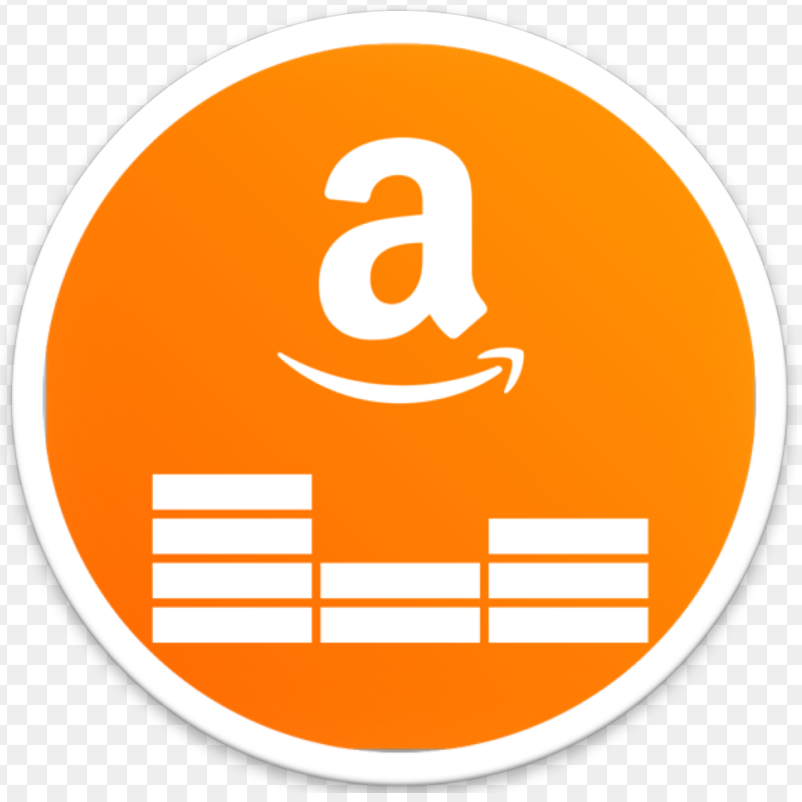
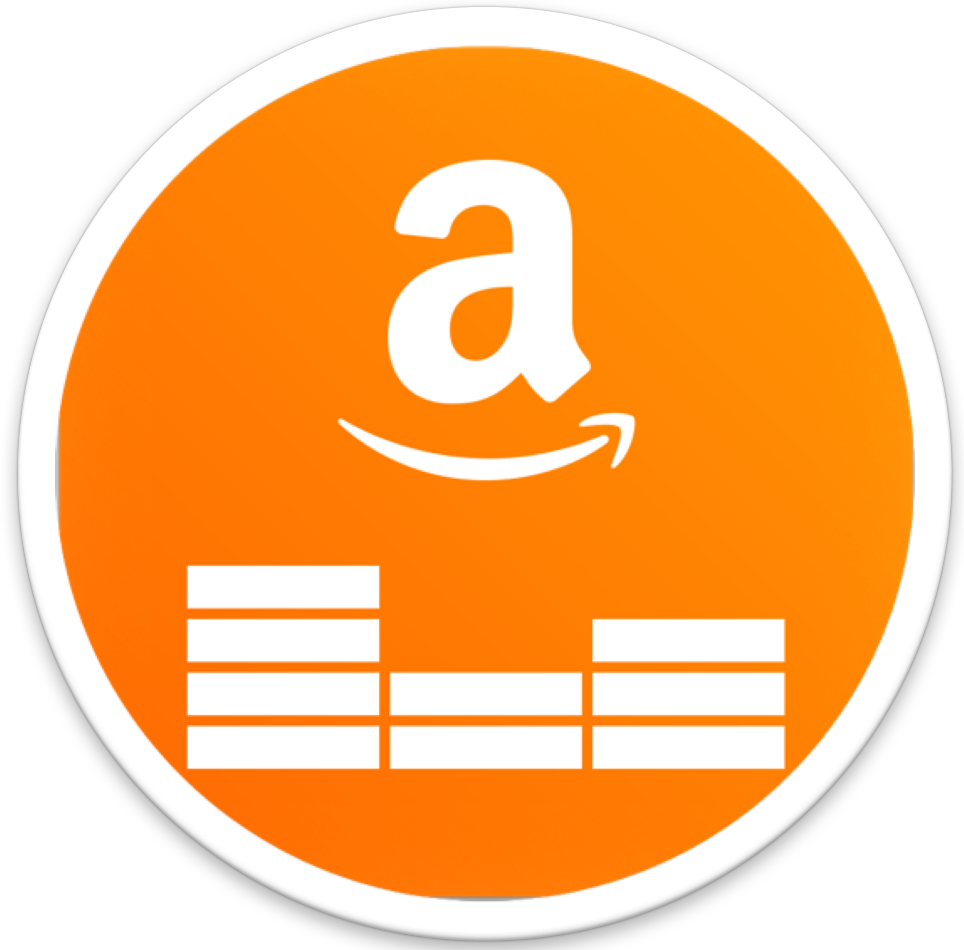
fix color

diff --git a/docs/index.html b/docs/index.html
@@ -43,37 +43,39 @@
         </div>
         <!-- <img src="img/album-cover.jpg" alt="Album Cover" width="500" height="500"> -->
       </div>
+      <div class='social-icons'>
+        <span class='social-icon p-1 '>
+          <a href="https://open.spotify.com/album/1DbRcm1FRhm0xilHmNosDM">
+            <img src="img/spotify-icon.png" alt="Spotify" width="50" height="50">
+          </a>
+        </span>
+        <span class='social-icon p-1 '>
+          <a href="https://music.apple.com/us/album/zona/1525062438?uo=4&app=music&at=1000lHKX">
+            <img src="img/apple-icon.png" alt="Apple" width="50" height="50">
+          </a>
+        </span>
+        <span class='social-icon p-1 '>
+          <a href="https://www.youtube.com/playlist?list=OLAK5uy_lT6MOkMMOZTNu4WrU-AWnHciyxI_RmZ4E">
+            <img src="img/youtube-icon.png" alt="Youtube" width="50" height="50">
+          </a>
+        </span>
+        <span class='social-icon p-1 '>
+          <a href="https://play.google.com/music/listen#/album/Blbjhpwvz356rn7sqkjaz3yrwom">
+            <img src="img/google-icon.png" alt="Google Play" width="50" height="50">
+          </a>
+        </span>
+        <span class='social-icon p-1 '>
+          <a href="https://music.amazon.com/albums/B08DLQ286Y?do=play">
+            <img src="img/amazon-icon.png" alt='Amazon music' width="50" height="50">
+          </a>
+        </span>
+        <span class='social-icon p-1 '>
+          <a href="https://twitter.com/hypertalk_ai">
+            <img src="img/twitter-icon.png" alt="Twitter" width="50" height="50">
+          </a>
+        </span>
+      </div>
 
-      <span class='social-icon p-1 '>
-        <a href="https://open.spotify.com/album/1DbRcm1FRhm0xilHmNosDM">
-          <img src="img/spotify-icon.png" alt="Spotify" width="50" height="50">
-        </a>
-      </span>
-      <span class='social-icon p-1 '>
-        <a href="https://music.apple.com/us/album/zona/1525062438?uo=4&app=music&at=1000lHKX">
-          <img src="img/apple-icon.png" alt="Apple" width="50" height="50">
-        </a>
-      </span>
-      <span class='social-icon p-1 '>
-        <a href="https://www.youtube.com/playlist?list=OLAK5uy_lT6MOkMMOZTNu4WrU-AWnHciyxI_RmZ4E">
-          <img src="img/youtube-icon.png" alt="Youtube" width="50" height="50">
-        </a>
-      </span>
-      <span class='social-icon p-1 '>
-        <a href="https://play.google.com/music/listen#/album/Blbjhpwvz356rn7sqkjaz3yrwom">
-          <img src="img/google-icon.png" alt="Google Play" width="50" height="50">
-        </a>
-      </span>
-      <span class='social-icon p-1 '>
-        <a href="https://music.amazon.com/albums/B08DLQ286Y?do=play">
-          <img src="img/amazon-icon.png" alt="Google Play" width="50" height="50">
-        </a>
-      </span>
-      <span class='social-icon p-1 '>
-        <a href="https://twitter.com/hypertalk_ai">
-          <img src="img/twitter-icon.png" alt="Twitter" width="50" height="50">
-        </a>
-      </span>
 
     </main>
   

diff --git a/docs/assets/css/main.css b/docs/assets/css/main.css
@@ -35,7 +35,8 @@ body {
     line-height: 1.4;
     height: 100%;
     text-align: center;
-}
+    background-color: #2b2b2b;
+  }
 
 /*
  * Remove text-shadow in selection highlight: h5bp.com/i
@@ -228,6 +229,10 @@ hr {
     border: none;
 }
 
+.social-icons{
+  padding-top: 1em;
+}
+
 hr:before {
     content: " ";
     position: absolute;
@@ -239,7 +244,7 @@ hr:before {
 }
 
 a img {
-    background: white;
+    background:#2b2b2b;
 }
 
 .odd a img {
@@ -250,7 +255,7 @@ a img {
 h1, h2, h3, h4, h5, h6 {
     font-family: "Library 3 am";
     font-weight: 300;
-    color: #333;
+    color: #c0392b;
 }
 
 

diff --git a/docs/assets/aviator/js/main_step2.js b/docs/assets/aviator/js/main_step2.js
@@ -537,8 +537,8 @@ function loop(){
   // //  var diff = airplane.mesh.position.distanceTo(c.mesh.position)
   //   //console.log(diff)
   // }
-// tween = TweenMax.to(scene, 2, {background:ColorPallet.red, repeat:10, yoyo:true, onRepeat:onRepeat, repeatDelay:0.5, ease:Linear.easeNone});
-//   TweenMax.to(scene, 2, { background: ColorPallet.red });
+  tween = TweenMax.to(scene, 2, {background:ColorPallet.red, repeat:10, yoyo:true, onRepeat:onRepeat, repeatDelay:0.5, ease:Linear.easeNone});
+    TweenMax.to(scene, 2, { background: ColorPallet.red });
 
 }
 
